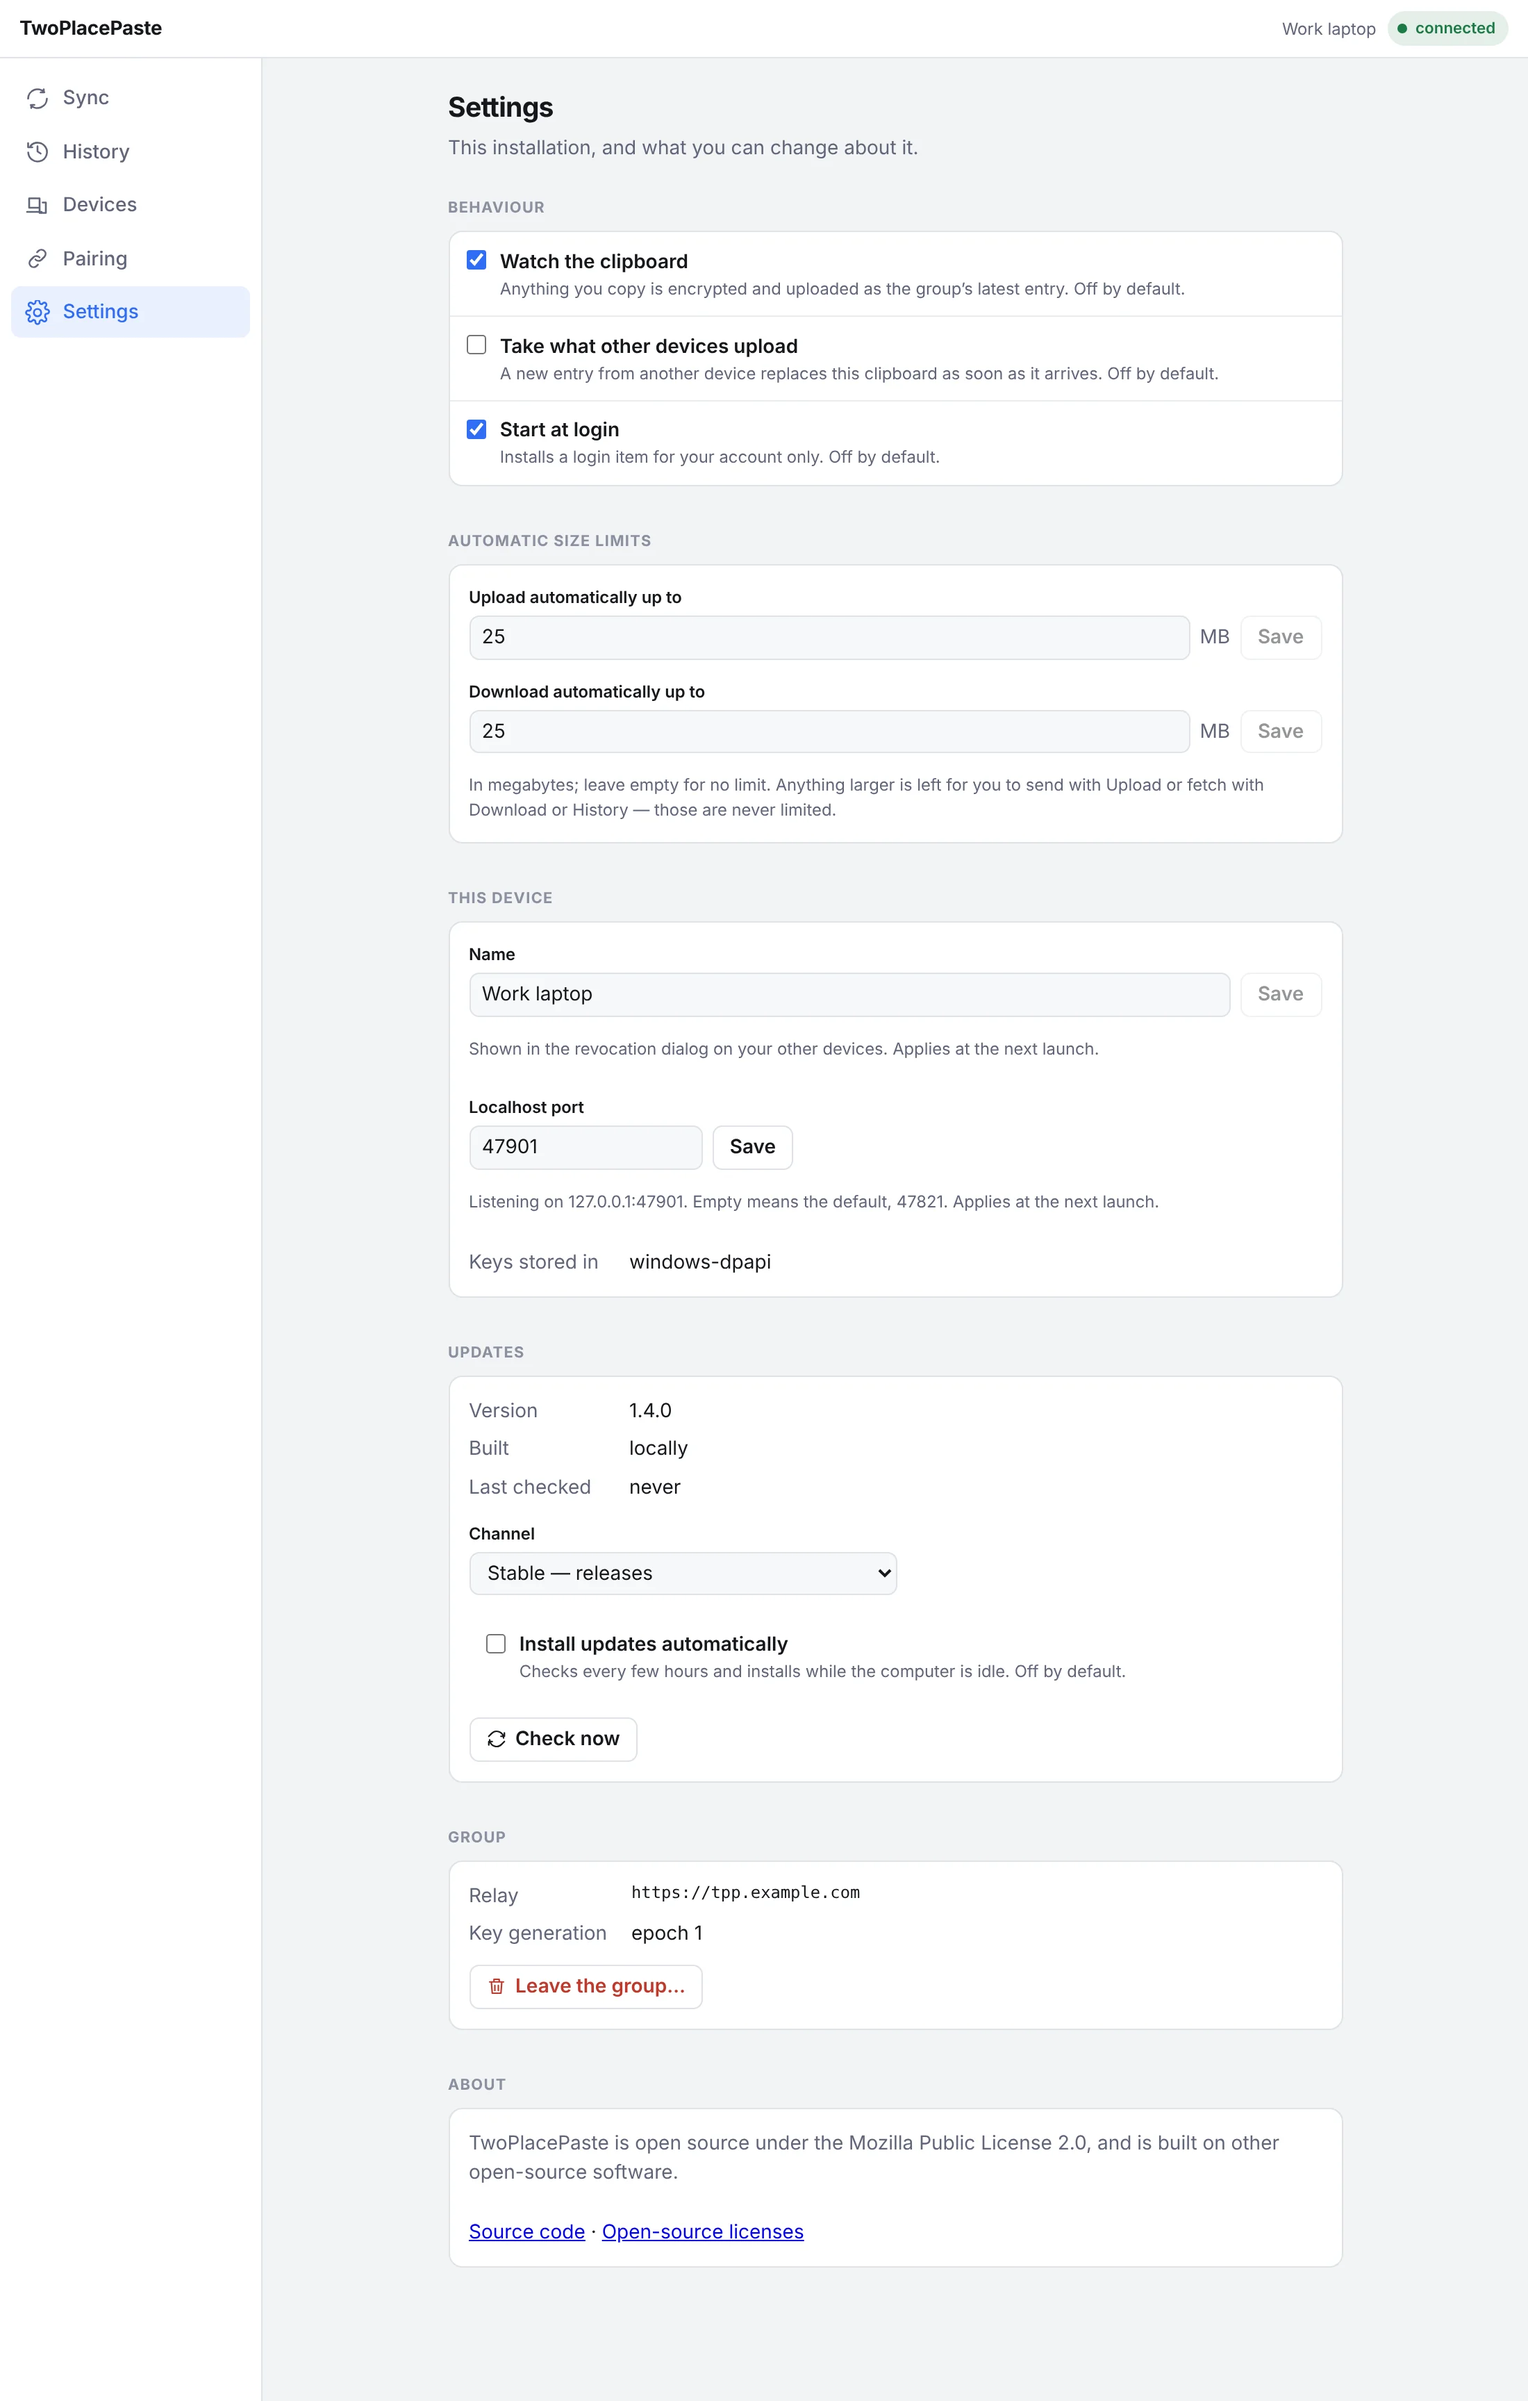
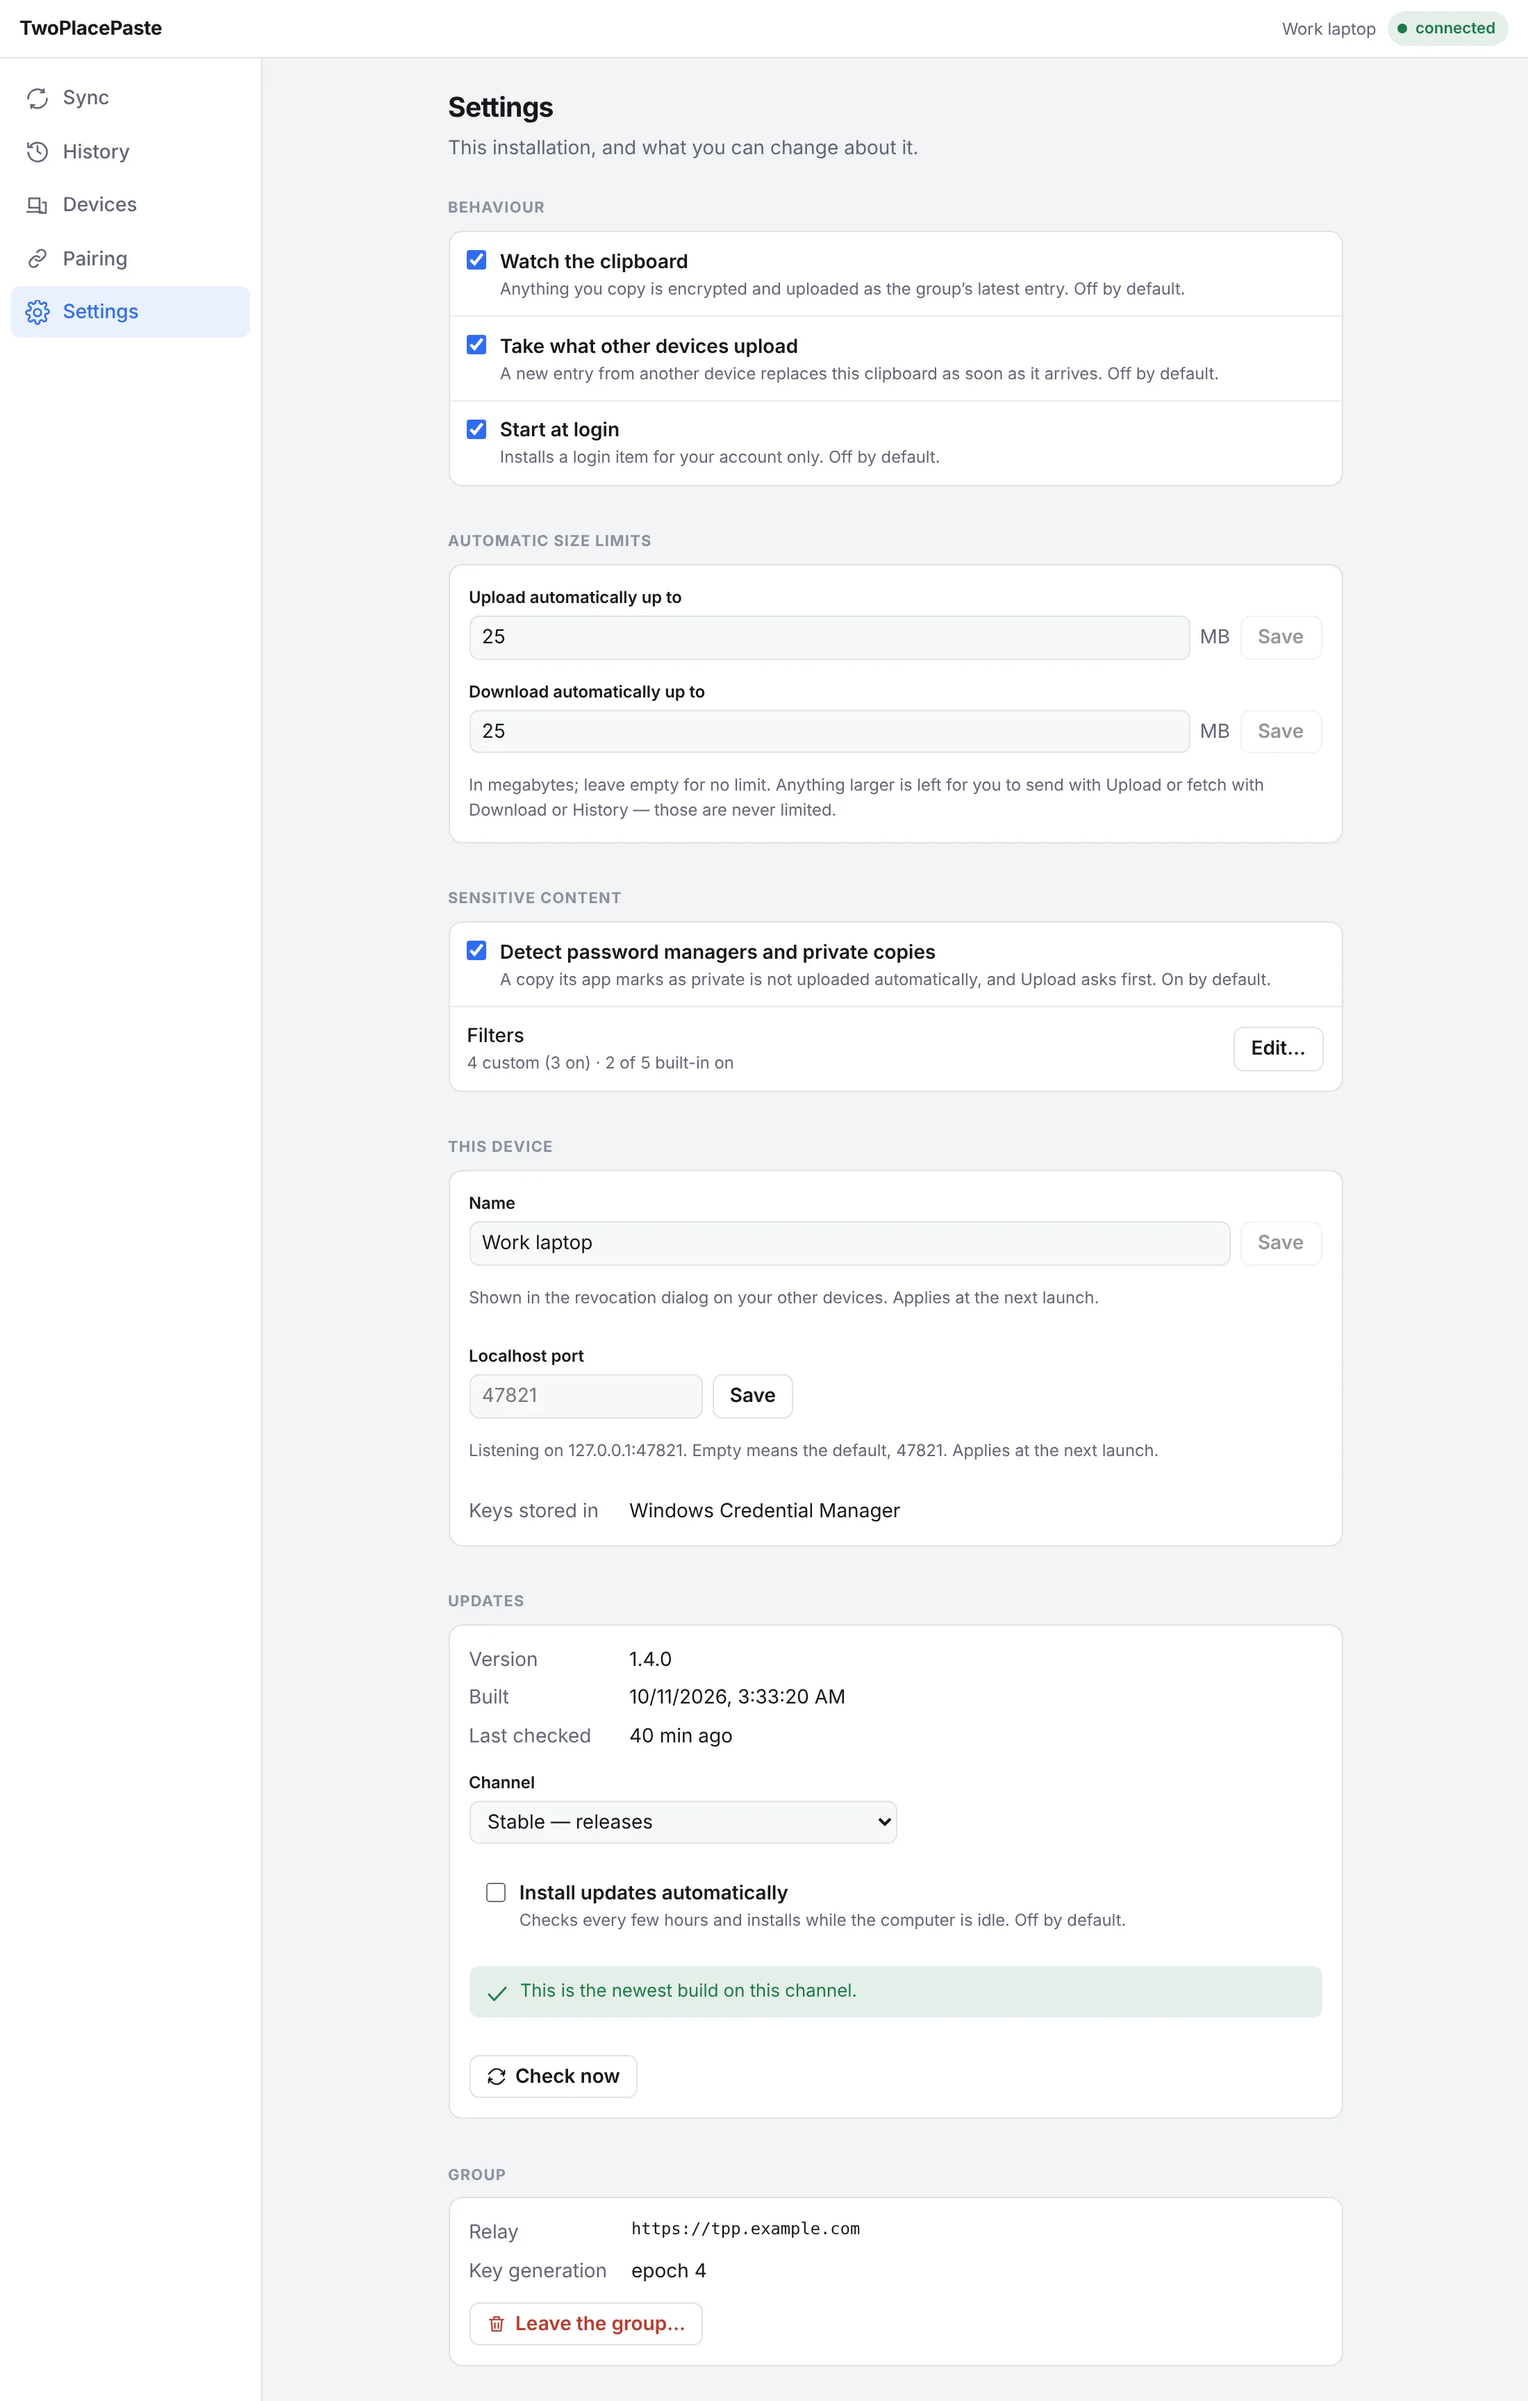
Document sensitive content and auto-upload filters
Last step of docs/internal/plans/auto-upload-filters.md.

- Docs site: a Sensitive content guide (password-manager markers per
  OS, the built-in detectors, every filter kind with examples, the
  editor, the masked clipboard and "push anyway"), linked from the
  sidebar, Settings, Sync, Tray, Troubleshooting, Security and the FAQ.
  The settings file is no longer described as holding nothing secret:
  filter values are in it as typed, except exact matches.
- Screenshots: Settings retaken; new ones of the filter editor, the
  masked clipboard and the protected-entry dialog.
- SPEC §7.2 gains the sensitive-content rule; the roadmap lists the
  feature as in review; desktop/README.md covers the new package,
  the logging rule and the cgo requirement for the macOS marker.
- The plan is marked implemented, with an As built section for where
  the code differs from it and what still needs a Mac and a Windows
  machine: compiling the cgo code and the password-manager matrix.

Claude-Session: https://claude.ai/code/session_01U8D8j7vRvUxz7HoWPv7JZq

diff --git a/docs/internal/plans/auto-upload-filters.md b/docs/internal/plans/auto-upload-filters.md
@@ -1,6 +1,8 @@
 # Plan — Sensitive clipboard content and auto-upload filters (desktop)
 
-**Status:** proposed.
+**Status:** implemented on `claude/auto-upload-filters-wsfin5`, in the six commits of §6.
+§8 records where the build differs from the plan below, and why; the plan itself is kept
+as it was agreed.
 **Touches:** `/desktop/**` (clipboard, config, service, localui, tray, UI),
 `/docs/internal/SPECS.md` §7.2, `/docs/site/**`. No change to `/proto`, `/spec`, the
 server, `pkg/tppclient` or mobile.
@@ -365,3 +367,86 @@ One PR, in this commit order, each passing `make test lint` and `npm run typeche
   auto-apply (spec + vectors + Go + TS).
 - A *source app* filter (foreground app at copy time), if wanted later.
 - Mobile, if it ever gains auto-upload.
+
+## 8. As built
+
+Everything in §4 and §5 was built. These are the places the code differs from the text
+above, and why.
+
+**OS detection (§4.1)**
+
+- The reason the user sees is *"Marked private by the app that copied it"*, and macOS's
+  transient and auto-generated types read as *"Marked temporary by the app that copied
+  it"*, so the two are told apart.
+- macOS, when the change count moves during a read twice in a row: the marker is taken
+  from *both* type lists rather than dropped. A race can then mark a plain copy as
+  private (it costs a question) but can never unmark a password (it would cost a leak).
+- Windows reads a DWORD format through a dedicated `readDWORD`, which copies four bytes
+  and no more, instead of the general `readBytes`.
+- **Not done here:** the manual test matrix with real password managers, and compiling
+  the macOS cgo code (`pasteboard_darwin.go`, `notify_darwin.m`), which this Linux
+  environment cannot do. Both need a Mac and a Windows machine before merge.
+
+**Classifier (§4.2)**
+
+- `Classify(content)` takes no context: it does no I/O. `Verdict.Rule` replaces
+  `FilterID` and also names a detector. `Matches` returns every match, for the test box.
+- The first benchmark ran 18 s on 50 MB of text. Three rules were rewritten to bring a
+  full configuration (every detector, four filters) to about 0.7 s:
+  - API tokens and JWTs jump between occurrences of each literal prefix and run an
+    anchored pattern on a short window there, instead of one alternation tried at every
+    byte. The token list also gained GitHub's `ghu_`/`ghr_`, Stripe's `rk_live_`,
+    GitLab, npm and SendGrid.
+  - Cards and IBANs are byte scanners, not regular expressions with counted repetition.
+    The IBAN scanner tries every group boundary as the end, so a trailing capitalised
+    word does not hide the number before it.
+  - Case-insensitive *contains* lower-cases the text once, shared by every such filter,
+    instead of a `(?i)` regular expression per filter. *Starts with* uses an anchored
+    `(?i)` pattern; *ends with* runs one on the last `4 × len(value)` bytes.
+- The log line is `"clipboard change not uploaded automatically: sensitive"` with
+  `source` and `rule`.
+
+**Service and API (§4.4, §4.5)**
+
+- Push plans have their own map, `pushPlans`, rather than sharing the revocation plans'.
+- A classification is cached by content digest and classifier, so the status refresh
+  and the watcher do not hash an exact filter twice for one copy.
+- A sensitive skip publishes `EventSensitive` (not `EventClipboard`) and clears an
+  upload `Skipped` notice, which was about the copy it replaced.
+- `POST /api/filters/test` also takes the draft's detectors, so the Built-in tab's
+  switches are tested before saving. New filters get their id in the editor, so a match
+  can point at an unsaved row.
+- A full filter list (200 × 1 KiB) and a 1 MiB test sample exceed the API's 64 KiB body
+  limit; `POST /api/settings` and `POST /api/filters/test` have limits of their own.
+
+**Tray (§4.6)**
+
+- `AskSensitive(planID, reason)` keeps the plan id in the tray. The question is withdrawn
+  after two minutes, the plan's life, rather than when the clipboard changes; confirming
+  after a change gets a new question about the new copy, which is the same outcome.
+- The notification reads *"This is a protected entry"* / *"<reason>. Push it to your
+  other devices anyway?"*.
+
+**UI (§4.7)**
+
+- A saved exact filter shows the placeholder *"Saved — type to replace"* rather than
+  "set". The kind is labelled *"Exact match"*; *"only a hash is kept"* is in its
+  placeholder, because the long label was cut off in the select.
+- Only the rows scroll inside the editor, so the tabs and the test box stay in view.
+- With unsaved changes the editor cannot be dismissed with Escape or the backdrop;
+  Cancel asks *"Discard your changes?"*.
+- `Modal` now focuses an element marked `data-autofocus` when it opens: React's
+  `autoFocus` ran while the dialog was still closed, so the close button took the focus
+  and the "push anyway?" dialog did not default to Cancel.
+- The UI has no test runner; a Playwright script against the built UI with a mocked API
+  checked the masked clipboard, reveal, push anyway, both tabs, turn all on/off, the
+  discard question and what Save sends. It is not committed.
+
+**Docs (§4.8)**
+
+- The detectors and filter kinds have a page of their own,
+  `guides/sensitive-content.mdx`, which Settings, Sync, Tray, Troubleshooting, Security
+  and the FAQ link to. The `!cgo` note is in `desktop/README.md`, where a developer
+  building without cgo will read it.
+- `desktop-sync.webp` is unchanged (its state did not change); the masked clipboard and
+  the protected-entry dialog have new screenshots, and Settings was retaken.

diff --git a/desktop/README.md b/desktop/README.md
@@ -46,8 +46,9 @@ environment.
 | `cmd/tppdesktop` | The binary: logging, keystore, wiring, shutdown. |
 | `internal/service` | Sync direction (SPEC §6), the revocation gate (SPEC §3.3), settings. |
 | `internal/localui` | The localhost server: token, Origin check, embedded UI, JSON API, event stream. |
-| `internal/clipboard` | Per-OS clipboard plus the watcher and its self-write suppression. |
-| `internal/tray` | Tray icon, its status glyphs, the menu, notifications (the sync-direction prompt), and the visible bind failure. |
+| `internal/clipboard` | Per-OS clipboard plus the watcher and its self-write suppression, and the password managers' privacy markers (`markers.go`). |
+| `internal/sensitive` | What counts as sensitive: the OS marker, built-in detectors and the user's filters (`docs/internal/plans/auto-upload-filters.md`). |
+| `internal/tray` | Tray icon, its status glyphs, the menu, notifications (the sync-direction and protected-entry prompts), and the visible bind failure. |
 | `internal/autostart` | launchd agent (macOS) and the HKCU Run key (Windows). |
 | `internal/config` | The settings file. Non-secret by design: the port must be editable by hand. |
 | `internal/update` | The auto-updater: Stable, Beta and Nightly sources, manifest signatures, the in-place swap. |
@@ -68,6 +69,12 @@ Anything in the user's browser can reach `127.0.0.1`, so:
 
 Secrets are the keystore's, not this module's: the device private key and the group
 key never reach the settings file or a log.
+
+Sensitive-content filters may hold the user's own private text, so neither a filter's
+value nor its label is ever logged; a match is logged by source and rule id only. An
+exact-match filter keeps only an argon2id hash. The macOS privacy marker is read
+through AppKit, so a build with `CGO_ENABLED=0` cannot see it and treats no copy as a
+password manager's; release builds use cgo.
 
 ## Windows has no console, so there is a log file
 

diff --git a/docs/internal/SPECS.md b/docs/internal/SPECS.md
@@ -552,6 +552,12 @@ binary, served from localhost and opened in the user's default browser.
   from bytes the page fetches with its token. A file whose bytes do not match its name
   is not previewed.
 - Device management and pairing (show QR, scan not applicable — paste token)
+- Sensitive content: a clipboard change that its application marked as private (a password
+  manager's), or that matches a built-in detector or one of the user's filters, is never
+  uploaded by auto-watch, is masked on screen, and is uploaded by hand only after the user
+  confirms. Detection of the OS marker is on by default; the decision and the filters are
+  local to the device and nothing about them reaches the relay or the wire
+  (`docs/internal/plans/auto-upload-filters.md`).
 
 **Autostart on login:** user setting, **default off**. Implemented via launchd plist on
 macOS and a registry Run key on Windows.

diff --git a/docs/site/src/content/docs/faq.md b/docs/site/src/content/docs/faq.md
@@ -9,6 +9,13 @@ No, and there will not be a way to. Every entry lives exactly 24 hours. The rela
 whole hours of storage at once without looking anything up, and that only works because no entry's
 lifetime can change.
 
+### Will it upload passwords I copy from my password manager?
+
+Not on its own. The desktop app recognises what most password managers mark as private, and keeps it
+on that computer even with *Watch the clipboard* on; you can still push it by hand after a
+confirmation. You can add your own filters too. See
+[Sensitive content](/two-place-paste/guides/sensitive-content/).
+
 ### Can the server operator read my clipboard?
 
 No. The relay only ever has ciphertext and a wrapped copy of your group's key that it cannot

diff --git a/docs/site/src/content/docs/security.md b/docs/site/src/content/docs/security.md
@@ -52,6 +52,13 @@ to reach `127.0.0.1`, the app:
   `localStorage`,
 - checks the `Origin` header on every request, including the WebSocket.
 
+## Passwords on the clipboard
+
+With *Watch the clipboard* on, the desktop app does not upload a copy that its application marked as
+private — a password manager's, most often — or one that matches a built-in detector or your own
+filter. You can still send it by hand, after a confirmation. This is decided on your computer, and
+the relay never learns about it. See [Sensitive content](/two-place-paste/guides/sensitive-content/).
+
 ## Reporting a problem
 
 Please report security issues privately through

diff --git a/docs/internal/ROADMAP.md b/docs/internal/ROADMAP.md
@@ -945,6 +945,16 @@ moving the risk onto the member, and the work split are in
 
 ---
 
+## Desktop feature — sensitive content and auto-upload filters
+
+🔍 **In review.** Keeps password-manager copies and anything matching a built-in detector
+or a user filter out of auto-upload, masks it on the Sync screen, and asks before a manual
+push, from the UI or the tray. Desktop only and local only: no wire, spec or server
+change. Plan, decisions and what was built differently are in
+[`docs/internal/plans/auto-upload-filters.md`](plans/auto-upload-filters.md).
+
+---
+
 ## Deferred backlog — do not let agents start these
 
 | Item | Spec ref |
